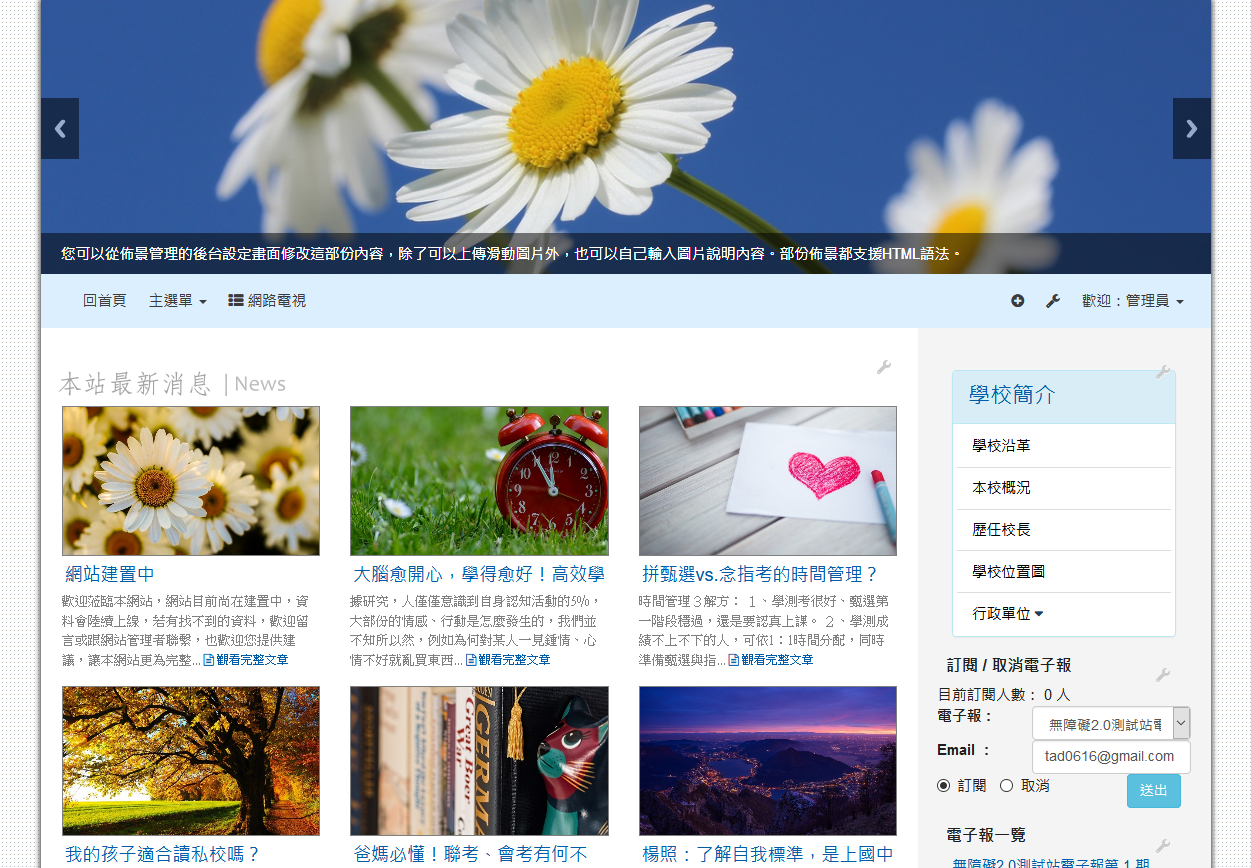
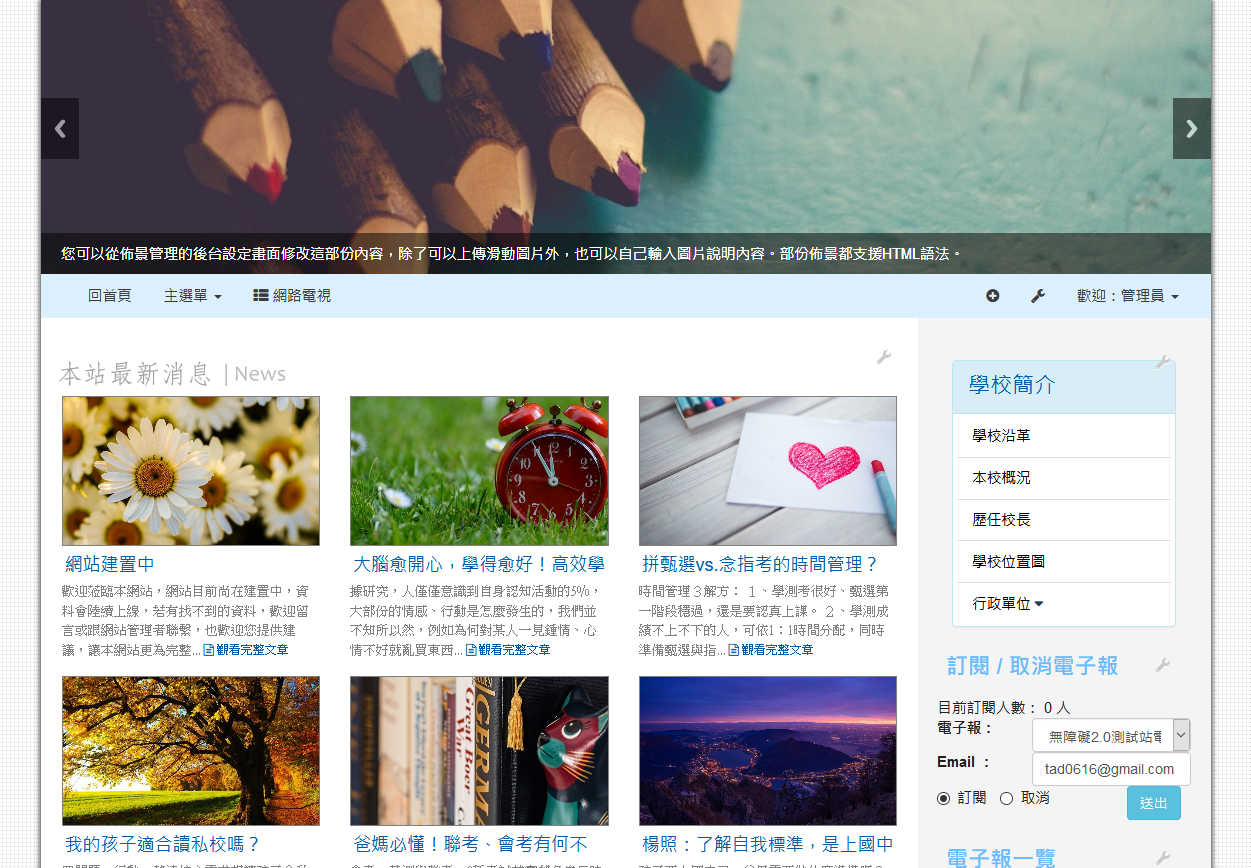
修正主內容區最上方無空隙問題

diff --git a/css/style.css b/css/style.css
@@ -37,7 +37,7 @@ p {
 
 /*主內容區*/
 #xoops_contents{
-
+  padding-top: 1rem;
 }
 
 /* 右區域 */
@@ -50,7 +50,6 @@ p {
   background-position: center center;
 }
 
-
 a {
   text-decoration: none;
 }
@@ -58,7 +57,6 @@ a {
 a:hover {
   text-decoration: none;
 }
-
 
 a.block_config {
   position:absolute;
@@ -74,7 +72,6 @@ a.block_config {
 a.block_config:hover {
   background-image: url(../img/block_config_hover.png);
 }
-
 
 .xoops_content_shadow{
   -moz-box-shadow: :0px 0px 5px 1px #333;

diff --git a/config2.php b/config2.php
@@ -1,135 +1,143 @@
 <?php
-$i                           = 0;
-$theme_config[$i]['name']    = "show_var";
-$theme_config[$i]['text']    = TF_SHOW_VAR;
-$theme_config[$i]['desc']    = TF_SHOW_VAR_DESC;
-$theme_config[$i]['type']    = "yesno";
+$i = 0;
+$theme_config[$i]['name'] = "show_var";
+$theme_config[$i]['text'] = TF_SHOW_VAR;
+$theme_config[$i]['desc'] = TF_SHOW_VAR_DESC;
+$theme_config[$i]['type'] = "yesno";
 $theme_config[$i]['default'] = "0";
 
 //外框是否套用 container
 $i++;
-$theme_config[$i]['name']    = "use_container";
-$theme_config[$i]['text']    = TF_USE_CONTAINER;
-$theme_config[$i]['desc']    = TF_USE_CONTAINER_DESC;
-$theme_config[$i]['type']    = "yesno";
+$theme_config[$i]['name'] = "use_container";
+$theme_config[$i]['text'] = TF_USE_CONTAINER;
+$theme_config[$i]['desc'] = TF_USE_CONTAINER_DESC;
+$theme_config[$i]['type'] = "yesno";
 $theme_config[$i]['default'] = "1";
 
 //外框是否套用陰影
 $i++;
-$theme_config[$i]['name']    = "use_shadow";
-$theme_config[$i]['text']    = TF_USE_SHADOW;
-$theme_config[$i]['desc']    = TF_USE_SHADOW_DESC;
-$theme_config[$i]['type']    = "yesno";
+$theme_config[$i]['name'] = "use_shadow";
+$theme_config[$i]['text'] = TF_USE_SHADOW;
+$theme_config[$i]['desc'] = TF_USE_SHADOW_DESC;
+$theme_config[$i]['type'] = "yesno";
 $theme_config[$i]['default'] = "1";
 
 //外框是否包含logo圖
 $i++;
-$theme_config[$i]['name']    = "shadow_include_logo";
-$theme_config[$i]['text']    = TF_USE_SHADOW_LOGO;
-$theme_config[$i]['desc']    = TF_USE_SHADOW_LOGO_DESC;
-$theme_config[$i]['type']    = "yesno";
+$theme_config[$i]['name'] = "shadow_include_logo";
+$theme_config[$i]['text'] = TF_USE_SHADOW_LOGO;
+$theme_config[$i]['desc'] = TF_USE_SHADOW_LOGO_DESC;
+$theme_config[$i]['type'] = "yesno";
 $theme_config[$i]['default'] = "0";
 
 //上方logo底色
 $i++;
-$theme_config[$i]['name']    = "logo_bgcolor";
-$theme_config[$i]['text']    = TF_LOGO_BGCOLOR;
-$theme_config[$i]['desc']    = TF_LOGO_BGCOLOR_DESC;
-$theme_config[$i]['type']    = "color";
+$theme_config[$i]['name'] = "logo_bgcolor";
+$theme_config[$i]['text'] = TF_LOGO_BGCOLOR;
+$theme_config[$i]['desc'] = TF_LOGO_BGCOLOR_DESC;
+$theme_config[$i]['type'] = "color";
 $theme_config[$i]['default'] = "transparent";
 
 //左區域和主內容間是否加上分隔線
 $i++;
-$theme_config[$i]['name']    = "left_separate";
-$theme_config[$i]['text']    = TF_LEFT_SPARATE;
-$theme_config[$i]['desc']    = TF_LEFT_SPARATE_DESC;
-$theme_config[$i]['type']    = "yesno";
+$theme_config[$i]['name'] = "left_separate";
+$theme_config[$i]['text'] = TF_LEFT_SPARATE;
+$theme_config[$i]['desc'] = TF_LEFT_SPARATE_DESC;
+$theme_config[$i]['type'] = "yesno";
 $theme_config[$i]['default'] = "0";
 
 //右區域和主內容間是否加上分隔線
 $i++;
-$theme_config[$i]['name']    = "right_separate";
-$theme_config[$i]['text']    = TF_RIGHT_SPARATE;
-$theme_config[$i]['desc']    = TF_RIGHT_SPARATE_DESC;
-$theme_config[$i]['type']    = "yesno";
+$theme_config[$i]['name'] = "right_separate";
+$theme_config[$i]['text'] = TF_RIGHT_SPARATE;
+$theme_config[$i]['desc'] = TF_RIGHT_SPARATE_DESC;
+$theme_config[$i]['type'] = "yesno";
 $theme_config[$i]['default'] = "0";
 
 //左右區域和主內容間的分隔線樣式
 $i++;
-$theme_config[$i]['name']    = "separate_style";
-$theme_config[$i]['text']    = TF_SPARATE_STYLE;
-$theme_config[$i]['desc']    = TF_SPARATE_STYLE_DESC;
-$theme_config[$i]['type']    = "text";
+$theme_config[$i]['name'] = "separate_style";
+$theme_config[$i]['text'] = TF_SPARATE_STYLE;
+$theme_config[$i]['desc'] = TF_SPARATE_STYLE_DESC;
+$theme_config[$i]['type'] = "text";
 $theme_config[$i]['default'] = "1px dashed gray";
 
 //字型設定
 $i++;
-$theme_config[$i]['name']    = "font_family";
-$theme_config[$i]['text']    = TF_FONT_FAMILY;
-$theme_config[$i]['desc']    = TF_FONT_FAMILY_DESC;
-$theme_config[$i]['type']    = "text";
+$theme_config[$i]['name'] = "font_family";
+$theme_config[$i]['text'] = TF_FONT_FAMILY;
+$theme_config[$i]['desc'] = TF_FONT_FAMILY_DESC;
+$theme_config[$i]['type'] = "text";
 $theme_config[$i]['default'] = constant('TF_FONT_FAMILY_DEFAULT');
 
 //頁尾底圖
 $i++;
-$theme_config[$i]['name']    = "footer_img";
-$theme_config[$i]['text']    = TF_FOOTER_IMG;
-$theme_config[$i]['desc']    = TF_FOOTER_IMG_DESC;
-$theme_config[$i]['type']    = "file";
-$theme_config[$i]['default'] = XOOPS_URL . "/themes/school2015/images/foot.jpg";
+$theme_config[$i]['name'] = "footer_img";
+$theme_config[$i]['text'] = TF_FOOTER_IMG;
+$theme_config[$i]['desc'] = TF_FOOTER_IMG_DESC;
+$theme_config[$i]['type'] = "file";
+$theme_config[$i]['default'] = XOOPS_URL . "/themes/school2013/images/foot.jpg";
 
 //頁尾底圖CSS設定
 $i++;
-$theme_config[$i]['name']    = "foot_bg_css";
-$theme_config[$i]['text']    = TF_FOOTER_BG_CSS;
-$theme_config[$i]['desc']    = TF_FOOTER_BG_CSS_DESC;
-$theme_config[$i]['type']    = "text";
+$theme_config[$i]['name'] = "foot_bg_css";
+$theme_config[$i]['text'] = TF_FOOTER_BG_CSS;
+$theme_config[$i]['desc'] = TF_FOOTER_BG_CSS_DESC;
+$theme_config[$i]['type'] = "text";
 $theme_config[$i]['default'] = "background-size:cover;background-repeat:repeat;";
 
 //頁尾高度
 $i++;
-$theme_config[$i]['name']    = "footer_height";
-$theme_config[$i]['text']    = TF_FOOTER_HEIGHT;
-$theme_config[$i]['desc']    = TF_FOOTER_HEIGHT_DESC;
-$theme_config[$i]['type']    = "text";
+$theme_config[$i]['name'] = "footer_height";
+$theme_config[$i]['text'] = TF_FOOTER_HEIGHT;
+$theme_config[$i]['desc'] = TF_FOOTER_HEIGHT_DESC;
+$theme_config[$i]['type'] = "text";
 $theme_config[$i]['default'] = "180px";
 
 //頁尾底色
 $i++;
-$theme_config[$i]['name']    = "footer_bgcolor";
-$theme_config[$i]['text']    = TF_FOOTER_BGCOLOR;
-$theme_config[$i]['desc']    = TF_FOOTER_BGCOLOR_DESC;
-$theme_config[$i]['type']    = "color";
+$theme_config[$i]['name'] = "footer_bgcolor";
+$theme_config[$i]['text'] = TF_FOOTER_BGCOLOR;
+$theme_config[$i]['desc'] = TF_FOOTER_BGCOLOR_DESC;
+$theme_config[$i]['type'] = "color";
 $theme_config[$i]['default'] = "#0090d6";
 
 //頁尾文字內距
 $i++;
-$theme_config[$i]['name']    = "footer_padding";
-$theme_config[$i]['text']    = TF_FOOTER_PADDING;
-$theme_config[$i]['desc']    = TF_FOOTER_PADDING_DESC;
-$theme_config[$i]['type']    = "text";
+$theme_config[$i]['name'] = "footer_padding";
+$theme_config[$i]['text'] = TF_FOOTER_PADDING;
+$theme_config[$i]['desc'] = TF_FOOTER_PADDING_DESC;
+$theme_config[$i]['type'] = "text";
 $theme_config[$i]['default'] = "40px 50px";
 
 //頁尾文字顏色
 $i++;
-$theme_config[$i]['name']    = "footer_color";
-$theme_config[$i]['text']    = TF_FOOTER_COLOR;
-$theme_config[$i]['desc']    = TF_FOOTER_COLOR_DESC;
-$theme_config[$i]['type']    = "color";
+$theme_config[$i]['name'] = "footer_color";
+$theme_config[$i]['text'] = TF_FOOTER_COLOR;
+$theme_config[$i]['desc'] = TF_FOOTER_COLOR_DESC;
+$theme_config[$i]['type'] = "color";
 $theme_config[$i]['default'] = "#FFFFFF";
 
 //頁尾內容樣式設定
 $i++;
-$theme_config[$i]['name']    = "footer_style";
-$theme_config[$i]['text']    = TF_FOOTER_STYLE;
-$theme_config[$i]['desc']    = TF_FOOTER_STYLE_DESC;
-$theme_config[$i]['type']    = "textarea";
+$theme_config[$i]['name'] = "footer_style";
+$theme_config[$i]['text'] = TF_FOOTER_STYLE;
+$theme_config[$i]['desc'] = TF_FOOTER_STYLE_DESC;
+$theme_config[$i]['type'] = "textarea";
 $theme_config[$i]['default'] = "line-height:180%;text-align:center;";
 
 //我要加入的js或css
 $i++;
-$theme_config[$i]['name']    = "my_code";
-$theme_config[$i]['text']    = TF_MY_CODE;
-$theme_config[$i]['desc']    = TF_MY_CODE_DESC;
-$theme_config[$i]['type']    = "text";
+$theme_config[$i]['name'] = "my_code";
+$theme_config[$i]['text'] = TF_MY_CODE;
+$theme_config[$i]['desc'] = TF_MY_CODE_DESC;
+$theme_config[$i]['type'] = "text";
 $theme_config[$i]['default'] = "";
+
+//是否點擊才出現子選單
+$i++;
+$theme_config[$i]['name'] = "no_mouse_over";
+$theme_config[$i]['text'] = TF_NAV_NO_MOUSE_OVER;
+$theme_config[$i]['desc'] = TF_NAV_NO_MOUSE_OVER_DESC;
+$theme_config[$i]['type'] = "yesno";
+$theme_config[$i]['default'] = "0";

diff --git a/language/tchinese_utf8/main.php b/language/tchinese_utf8/main.php
@@ -21,7 +21,7 @@ define("TF_LOGO_BGCOLOR", "上方LOGO區的底色");
 define("TF_LOGO_BGCOLOR_DESC", "上方LOGO區的底色");
 define("TF_FONT_FAMILY", "主要字型設定");
 define("TF_FONT_FAMILY_DEFAULT", "\"Helvetica Neue\",Helvetica,Arial,\"微軟正黑體\",sans-serif");
-define("TF_FONT_FAMILY_DESC", "輸入字型名稱，有空白的部份需要用\"\"包起來。如：" . TF_FONT_FAMILY_DEFAULT);
+define('TF_FONT_FAMILY_DESC', '輸入字型名稱，有空白的部份需要用""包起來。完整可用字型請參考：<a href="' . XOOPS_URL . '/modules/tadtools/fonts.php" target="_blank">' . XOOPS_URL . '/modules/tadtools/fonts.php</a>');
 define("TF_USE_SHADOW_LOGO", "陰影是否包含logo");
 define("TF_USE_SHADOW_LOGO_DESC", "當logo在滑動圖文之上時，是否仍要加上陰影？");
 define("TF_USE_CONTAINER", "是否使用有限寬度？");
@@ -36,3 +36,6 @@ define('TF_SPARATE_STYLE', '左右區域分隔線的樣式');
 define('TF_SPARATE_STYLE_DESC', '左右區域分隔線的樣式');
 define('TF_MY_CODE', '欲加入頁尾的CSS或JS語法');
 define('TF_MY_CODE_DESC', '可自行載入CSS或JS');
+
+define('TF_NAV_NO_MOUSE_OVER', '是否點擊才出現子選單');
+define('TF_NAV_NO_MOUSE_OVER_DESC', '預設為滑鼠停留就出現，選是就必須點擊才會出現');

diff --git a/language/english/main.php b/language/english/main.php
@@ -22,7 +22,7 @@ define('TF_LOGO_BGCOLOR', 'Logo background color');
 define('TF_LOGO_BGCOLOR_DESC', 'Logo background color');
 define('TF_FONT_FAMILY', 'Font family');
 define('TF_FONT_FAMILY_DEFAULT', '"Helvetica Neue", Helvetica, Arial, sans-serif');
-define('TF_FONT_FAMILY_DESC', 'CSS font-family setup, e.g.:' . TF_FONT_FAMILY_DEFAULT);
+define('TF_FONT_FAMILY_DESC', 'Enter the font name, and wrap the blank part with "". For a complete list of available fonts, please refer to <a href="' . XOOPS_URL . '/modules/tadtools/fonts.php" target="_blank">' . XOOPS_URL . '/modules/tadtools/fonts.php</a>');
 define('TF_USE_SHADOW_LOGO', ' Display logo shadow? ');
 define('TF_USE_SHADOW_LOGO_DESC', '');
 define('TF_USE_CONTAINER', 'user class="container"?');
@@ -37,3 +37,5 @@ define('TF_SPARATE_STYLE', 'Separate line style');
 define('TF_SPARATE_STYLE_DESC', 'Setup separate line style.');
 define('TF_MY_CODE', 'Add CSS or JavaScript to footer');
 define('TF_MY_CODE_DESC', 'Add CSS or JavaScript to footer');
+define('TF_NAV_NO_MOUSE_OVER', 'Click to show submenu or not');
+define('TF_NAV_NO_MOUSE_OVER_DESC', 'Default is to appear when mouse hover, if yes, you must click to appear');

diff --git a/theme_autorun.php b/theme_autorun.php
@@ -1,3 +1,10 @@
 <?php
-xoops_load('XoopsFormRendererBootstrap3');
-XoopsFormRenderer::getInstance()->set(new XoopsFormRendererBootstrap3());
+use XoopsModules\Tadtools\Utility;
+if (!class_exists('XoopsModules\Tadtools\Utility')) {
+    require XOOPS_ROOT_PATH . '/modules/tadtools/preloads/autoloader.php';
+}
+Utility::get_jquery(true);
+if (file_exists(XOOPS_ROOT_PATH . "/class/xoopsform/renderer/XoopsFormRendererBootstrap3.php")) {
+    xoops_load('XoopsFormRendererBootstrap3');
+    XoopsFormRenderer::getInstance()->set(new XoopsFormRendererBootstrap3());
+}
